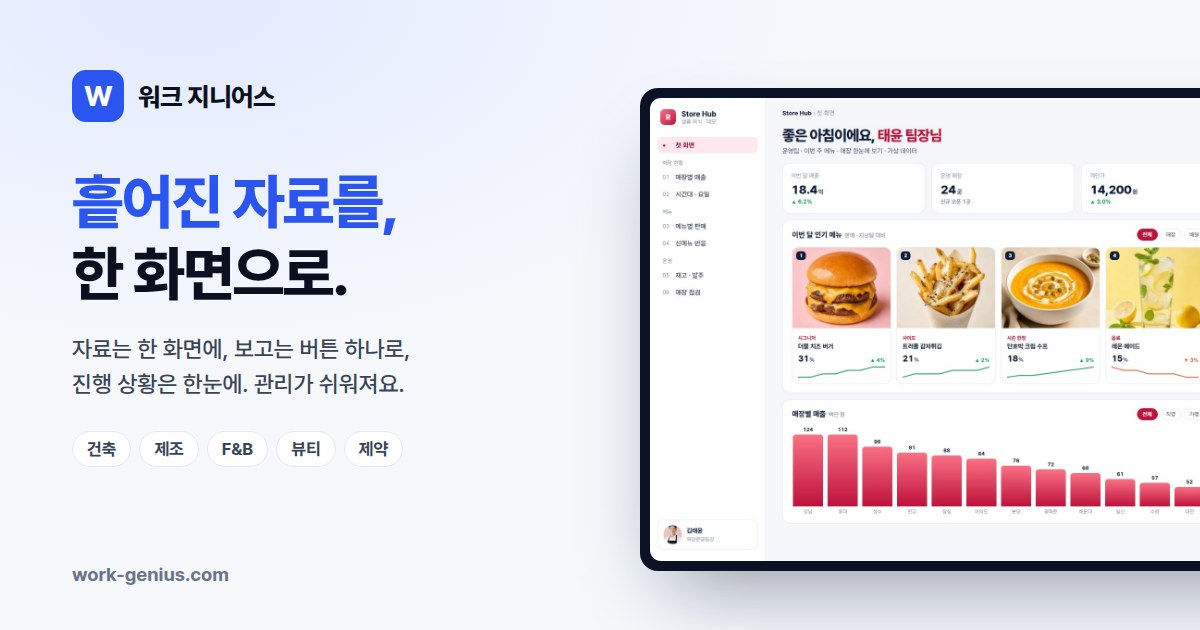
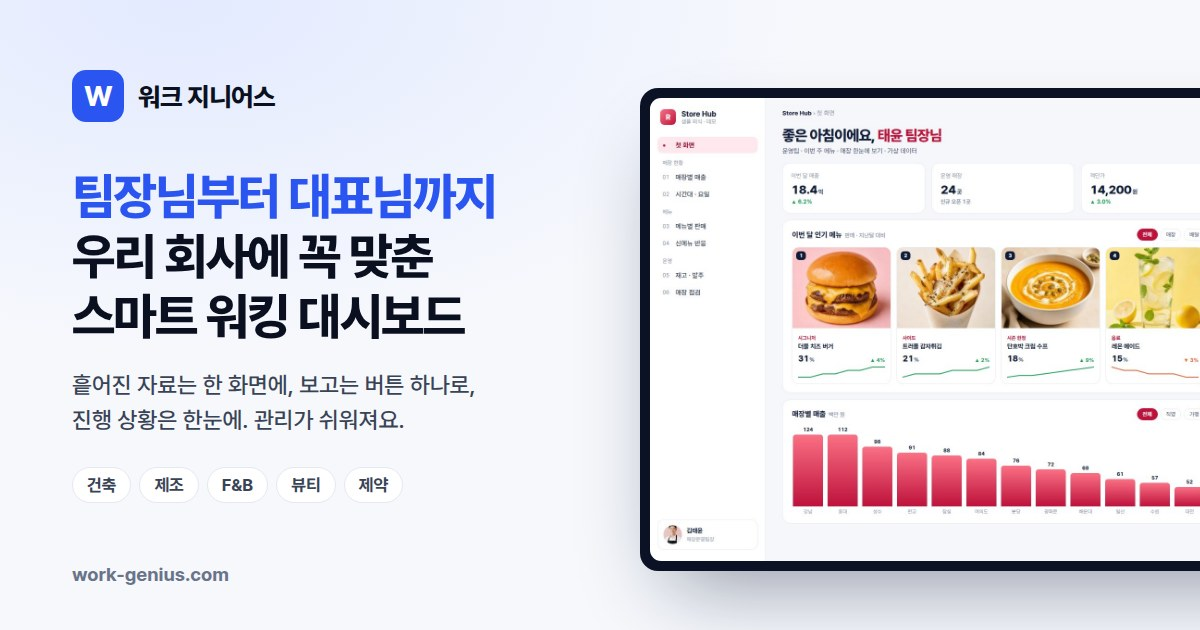
Hero: bring back 'From team leads to the CEO' headline; keep the one-screen promise as subtitle
Claude-Session: https://claude.ai/code/session_01SY1jukgDds4mgoZ5siNqay

diff --git a/kr/index.html b/kr/index.html
@@ -3,7 +3,7 @@
 <head>
 <meta charset="utf-8">
 <meta name="viewport" content="width=device-width,initial-scale=1,viewport-fit=cover">
-<title>워크 지니어스 · 흩어진 자료를 한 화면으로</title>
+<title>워크 지니어스 · 팀장님부터 대표님까지, 우리 회사에 꼭 맞춘 스마트 워킹 대시보드</title>
 <meta name="description" content="흩어진 자료를 한 화면으로. 자료는 한 화면에, 보고는 버튼 하나로, 진행 상황은 한눈에. 팀장님부터 대표님까지 관리가 쉬워져요.">
 <link rel="canonical" href="https://www.work-genius.com/kr/">
 <link rel="alternate" hreflang="en" href="https://www.work-genius.com/">
@@ -11,7 +11,7 @@
 <link rel="alternate" hreflang="x-default" href="https://www.work-genius.com/">
 <meta property="og:type" content="website">
 <meta property="og:site_name" content="워크 지니어스">
-<meta property="og:title" content="워크 지니어스 · 흩어진 자료를 한 화면으로">
+<meta property="og:title" content="워크 지니어스 · 팀장님부터 대표님까지, 우리 회사에 꼭 맞춘 스마트 워킹 대시보드">
 <meta property="og:description" content="흩어진 자료를 한 화면으로. 자료는 한 화면에, 보고는 버튼 하나로, 진행 상황은 한눈에. 팀장님부터 대표님까지 관리가 쉬워져요.">
 <meta property="og:url" content="https://www.work-genius.com/kr/">
 <meta property="og:image" content="https://www.work-genius.com/assets/img/og.jpg">
@@ -40,8 +40,8 @@
     <span class="tag"><span class="en">Built by managers with 10–15 years on the job</span><span class="ko">10~15년차 일잘러 실무 매니저들이 만드는</span></span>
     <div class="fields" role="group" aria-label="Industry examples"><button type="button" class="fi" data-ind="build" aria-pressed="false"><svg width="16" height="16" viewBox="0 0 24 24" fill="none" stroke="currentColor" stroke-width="2" stroke-linecap="round" stroke-linejoin="round" aria-hidden="true"><rect x="4" y="2" width="16" height="20" rx="2"/><path d="M9 22v-4h6v4M8 6h.01M12 6h.01M16 6h.01M8 10h.01M12 10h.01M16 10h.01M8 14h.01M12 14h.01M16 14h.01"/></svg><span class="en">Architecture</span><span class="ko">건축</span></button><button type="button" class="fi" data-ind="factory" aria-pressed="false"><svg width="16" height="16" viewBox="0 0 24 24" fill="none" stroke="currentColor" stroke-width="2" stroke-linecap="round" stroke-linejoin="round" aria-hidden="true"><path d="M2 20a2 2 0 0 0 2 2h16a2 2 0 0 0 2-2V8l-7 5V8l-7 5V4a2 2 0 0 0-2-2H4a2 2 0 0 0-2 2Z"/><path d="M17 18h1M12 18h1M7 18h1"/></svg><span class="en">Manufacturing</span><span class="ko">제조</span></button><button type="button" class="fi on" data-ind="fnb" aria-pressed="true"><svg width="16" height="16" viewBox="0 0 24 24" fill="none" stroke="currentColor" stroke-width="2" stroke-linecap="round" stroke-linejoin="round" aria-hidden="true"><path d="M3 2v7c0 1.1.9 2 2 2h4a2 2 0 0 0 2-2V2"/><path d="M7 2v20"/><path d="M21 15V2a5 5 0 0 0-5 5v6c0 1.1.9 2 2 2h3Zm0 0v7"/></svg><span class="en">F&amp;B</span><span class="ko">F&amp;B</span></button><button type="button" class="fi" data-ind="beauty" aria-pressed="false"><svg width="16" height="16" viewBox="0 0 24 24" fill="none" stroke="currentColor" stroke-width="2" stroke-linecap="round" stroke-linejoin="round" aria-hidden="true"><path d="M9.94 15.5a2 2 0 0 0-1.44-1.44l-6.13-1.58a.5.5 0 0 1 0-.96l6.13-1.58A2 2 0 0 0 9.94 8.5l1.58-6.14a.5.5 0 0 1 .96 0l1.58 6.14a2 2 0 0 0 1.44 1.44l6.13 1.58a.5.5 0 0 1 0 .96l-6.13 1.58a2 2 0 0 0-1.44 1.44l-1.58 6.13a.5.5 0 0 1-.96 0z"/></svg><span class="en">Beauty</span><span class="ko">뷰티</span></button><button type="button" class="fi" data-ind="pharma" aria-pressed="false"><svg width="16" height="16" viewBox="0 0 24 24" fill="none" stroke="currentColor" stroke-width="2" stroke-linecap="round" stroke-linejoin="round" aria-hidden="true"><path d="m10.5 20.5 10-10a4.95 4.95 0 1 0-7-7l-10 10a4.95 4.95 0 1 0 7 7Z"/><path d="m8.5 8.5 7 7"/></svg><span class="en">Pharma</span><span class="ko">제약</span></button></div>
     <p class="fhint"><svg width="14" height="14" viewBox="0 0 24 24" fill="none" stroke="currentColor" stroke-width="2.4" stroke-linecap="round" stroke-linejoin="round" aria-hidden="true"><path d="M9 11V6a2 2 0 0 1 4 0v5M13 10a2 2 0 0 1 4 0v1M17 11a2 2 0 0 1 4 0v3a7 7 0 0 1-7 7h-1a6 6 0 0 1-5-2.7L5 15a2 2 0 0 1 3-2.6L9 13"/></svg><span class="en">Tap an industry to see its example screen</span><span class="ko">업종을 눌러 보세요 · 아래 예시 화면이 바뀌어요</span></p>
-    <h1><span class="en"><span class="blue">All your scattered data,</span><br>on one screen.</span><span class="ko"><span class="blue">흩어진 자료를,</span><br>한 화면으로.</span></h1>
-    <p class="sub"><span class="en">Gathered on one screen, reports in one click, progress at a glance.<br>From team leads to the CEO, management gets easier.</span><span class="ko">자료는 한 화면에, 보고는 버튼 하나로,<br>진행 상황은 한눈에.<br>팀장님부터 대표님까지, 관리가 쉬워져요.</span></p>
+    <h1><span class="en"><span class="blue">From team leads to the CEO,</span><br>a smart working dashboard<br>built for your company</span><span class="ko"><span class="blue">팀장님부터 대표님까지</span><br>우리 회사에 꼭 맞춘 스마트 워킹 대시보드</span></h1>
+    <p class="sub"><span class="en">Scattered data on one screen, reports in one click,<br>progress at a glance. Management gets easier.</span><span class="ko">흩어진 자료는 한 화면에, 보고는 버튼 하나로,<br>진행 상황은 한눈에. 관리가 쉬워져요.</span></p>
     <div class="acts"><a class="btn" href="pricing.html#start"><span class="en">Book a call</span><span class="ko">상담 신청</span></a><a class="btn line" href="pricing.html"><span class="en">See pricing</span><span class="ko">가격 보기</span></a></div>
     <div class="device"><div class="dv" data-ind="build" hidden><img class="en" loading="lazy" src="../assets/img/app-build-en.jpg?v=202609272230" alt="Sample dashboard" width="1600" height="1000"><img class="ko" loading="lazy" src="../assets/img/app-build.jpg?v=202609272230" alt="예시 대시보드" width="1600" height="1000"></div><div class="dv" data-ind="factory" hidden><img class="en" loading="lazy" src="../assets/img/app-factory-en.jpg?v=202609272230" alt="Sample dashboard" width="1600" height="1000"><img class="ko" loading="lazy" src="../assets/img/app-factory.jpg?v=202609272230" alt="예시 대시보드" width="1600" height="1000"></div><div class="dv" data-ind="fnb"><img class="en" src="../assets/img/app-fnb-en.jpg?v=202609272230" alt="Sample dashboard" width="1600" height="1000"><img class="ko" src="../assets/img/app-fnb.jpg?v=202609272230" alt="예시 대시보드" width="1600" height="1000"></div><div class="dv" data-ind="beauty" hidden><img class="en" loading="lazy" src="../assets/img/app-beauty-en.jpg?v=202609272230" alt="Sample dashboard" width="1600" height="1000"><img class="ko" loading="lazy" src="../assets/img/app-beauty.jpg?v=202609272230" alt="예시 대시보드" width="1600" height="1000"></div><div class="dv" data-ind="pharma" hidden><img class="en" loading="lazy" src="../assets/img/app-pharma-en.jpg?v=202609272230" alt="Sample dashboard" width="1600" height="1000"><img class="ko" loading="lazy" src="../assets/img/app-pharma.jpg?v=202609272230" alt="예시 대시보드" width="1600" height="1000"></div></div>
     <p class="dv-cap"><span class="en">Tap an industry above: same frame, different company. Menus, numbers and colours all change.</span><span class="ko">위에서 업종을 눌러 보세요. 같은 틀이라도 회사마다 메뉴 · 숫자 · 색이 달라져요.</span></p>

diff --git a/index.html b/index.html
@@ -3,7 +3,7 @@
 <head>
 <meta charset="utf-8">
 <meta name="viewport" content="width=device-width,initial-scale=1,viewport-fit=cover">
-<title>Work Genius · All your scattered data, on one screen</title>
+<title>Work Genius · A smart working dashboard built for your company, from team leads to the CEO</title>
 <meta name="description" content="All your scattered data, on one screen. Gathered on one screen, reports in one click, progress at a glance. From team leads to the CEO, management gets easier.">
 <link rel="canonical" href="https://www.work-genius.com/">
 <link rel="alternate" hreflang="en" href="https://www.work-genius.com/">
@@ -11,7 +11,7 @@
 <link rel="alternate" hreflang="x-default" href="https://www.work-genius.com/">
 <meta property="og:type" content="website">
 <meta property="og:site_name" content="Work Genius">
-<meta property="og:title" content="Work Genius · All your scattered data, on one screen">
+<meta property="og:title" content="Work Genius · A smart working dashboard built for your company, from team leads to the CEO">
 <meta property="og:description" content="All your scattered data, on one screen. Gathered on one screen, reports in one click, progress at a glance. From team leads to the CEO, management gets easier.">
 <meta property="og:url" content="https://www.work-genius.com/">
 <meta property="og:image" content="https://www.work-genius.com/assets/img/og-en.jpg">
@@ -40,8 +40,8 @@
     <span class="tag"><span class="en">Built by managers with 10–15 years on the job</span><span class="ko">10~15년차 일잘러 실무 매니저들이 만드는</span></span>
     <div class="fields" role="group" aria-label="Industry examples"><button type="button" class="fi" data-ind="build" aria-pressed="false"><svg width="16" height="16" viewBox="0 0 24 24" fill="none" stroke="currentColor" stroke-width="2" stroke-linecap="round" stroke-linejoin="round" aria-hidden="true"><rect x="4" y="2" width="16" height="20" rx="2"/><path d="M9 22v-4h6v4M8 6h.01M12 6h.01M16 6h.01M8 10h.01M12 10h.01M16 10h.01M8 14h.01M12 14h.01M16 14h.01"/></svg><span class="en">Architecture</span><span class="ko">건축</span></button><button type="button" class="fi" data-ind="factory" aria-pressed="false"><svg width="16" height="16" viewBox="0 0 24 24" fill="none" stroke="currentColor" stroke-width="2" stroke-linecap="round" stroke-linejoin="round" aria-hidden="true"><path d="M2 20a2 2 0 0 0 2 2h16a2 2 0 0 0 2-2V8l-7 5V8l-7 5V4a2 2 0 0 0-2-2H4a2 2 0 0 0-2 2Z"/><path d="M17 18h1M12 18h1M7 18h1"/></svg><span class="en">Manufacturing</span><span class="ko">제조</span></button><button type="button" class="fi on" data-ind="fnb" aria-pressed="true"><svg width="16" height="16" viewBox="0 0 24 24" fill="none" stroke="currentColor" stroke-width="2" stroke-linecap="round" stroke-linejoin="round" aria-hidden="true"><path d="M3 2v7c0 1.1.9 2 2 2h4a2 2 0 0 0 2-2V2"/><path d="M7 2v20"/><path d="M21 15V2a5 5 0 0 0-5 5v6c0 1.1.9 2 2 2h3Zm0 0v7"/></svg><span class="en">F&amp;B</span><span class="ko">F&amp;B</span></button><button type="button" class="fi" data-ind="beauty" aria-pressed="false"><svg width="16" height="16" viewBox="0 0 24 24" fill="none" stroke="currentColor" stroke-width="2" stroke-linecap="round" stroke-linejoin="round" aria-hidden="true"><path d="M9.94 15.5a2 2 0 0 0-1.44-1.44l-6.13-1.58a.5.5 0 0 1 0-.96l6.13-1.58A2 2 0 0 0 9.94 8.5l1.58-6.14a.5.5 0 0 1 .96 0l1.58 6.14a2 2 0 0 0 1.44 1.44l6.13 1.58a.5.5 0 0 1 0 .96l-6.13 1.58a2 2 0 0 0-1.44 1.44l-1.58 6.13a.5.5 0 0 1-.96 0z"/></svg><span class="en">Beauty</span><span class="ko">뷰티</span></button><button type="button" class="fi" data-ind="pharma" aria-pressed="false"><svg width="16" height="16" viewBox="0 0 24 24" fill="none" stroke="currentColor" stroke-width="2" stroke-linecap="round" stroke-linejoin="round" aria-hidden="true"><path d="m10.5 20.5 10-10a4.95 4.95 0 1 0-7-7l-10 10a4.95 4.95 0 1 0 7 7Z"/><path d="m8.5 8.5 7 7"/></svg><span class="en">Pharma</span><span class="ko">제약</span></button></div>
     <p class="fhint"><svg width="14" height="14" viewBox="0 0 24 24" fill="none" stroke="currentColor" stroke-width="2.4" stroke-linecap="round" stroke-linejoin="round" aria-hidden="true"><path d="M9 11V6a2 2 0 0 1 4 0v5M13 10a2 2 0 0 1 4 0v1M17 11a2 2 0 0 1 4 0v3a7 7 0 0 1-7 7h-1a6 6 0 0 1-5-2.7L5 15a2 2 0 0 1 3-2.6L9 13"/></svg><span class="en">Tap an industry to see its example screen</span><span class="ko">업종을 눌러 보세요 · 아래 예시 화면이 바뀌어요</span></p>
-    <h1><span class="en"><span class="blue">All your scattered data,</span><br>on one screen.</span><span class="ko"><span class="blue">흩어진 자료를,</span><br>한 화면으로.</span></h1>
-    <p class="sub"><span class="en">Gathered on one screen, reports in one click, progress at a glance.<br>From team leads to the CEO, management gets easier.</span><span class="ko">자료는 한 화면에, 보고는 버튼 하나로,<br>진행 상황은 한눈에.<br>팀장님부터 대표님까지, 관리가 쉬워져요.</span></p>
+    <h1><span class="en"><span class="blue">From team leads to the CEO,</span><br>a smart working dashboard<br>built for your company</span><span class="ko"><span class="blue">팀장님부터 대표님까지</span><br>우리 회사에 꼭 맞춘 스마트 워킹 대시보드</span></h1>
+    <p class="sub"><span class="en">Scattered data on one screen, reports in one click,<br>progress at a glance. Management gets easier.</span><span class="ko">흩어진 자료는 한 화면에, 보고는 버튼 하나로,<br>진행 상황은 한눈에. 관리가 쉬워져요.</span></p>
     <div class="acts"><a class="btn" href="pricing.html#start"><span class="en">Book a call</span><span class="ko">상담 신청</span></a><a class="btn line" href="pricing.html"><span class="en">See pricing</span><span class="ko">가격 보기</span></a></div>
     <div class="device"><div class="dv" data-ind="build" hidden><img class="en" loading="lazy" src="assets/img/app-build-en.jpg?v=202609272230" alt="Sample dashboard" width="1600" height="1000"><img class="ko" loading="lazy" src="assets/img/app-build.jpg?v=202609272230" alt="예시 대시보드" width="1600" height="1000"></div><div class="dv" data-ind="factory" hidden><img class="en" loading="lazy" src="assets/img/app-factory-en.jpg?v=202609272230" alt="Sample dashboard" width="1600" height="1000"><img class="ko" loading="lazy" src="assets/img/app-factory.jpg?v=202609272230" alt="예시 대시보드" width="1600" height="1000"></div><div class="dv" data-ind="fnb"><img class="en" src="assets/img/app-fnb-en.jpg?v=202609272230" alt="Sample dashboard" width="1600" height="1000"><img class="ko" src="assets/img/app-fnb.jpg?v=202609272230" alt="예시 대시보드" width="1600" height="1000"></div><div class="dv" data-ind="beauty" hidden><img class="en" loading="lazy" src="assets/img/app-beauty-en.jpg?v=202609272230" alt="Sample dashboard" width="1600" height="1000"><img class="ko" loading="lazy" src="assets/img/app-beauty.jpg?v=202609272230" alt="예시 대시보드" width="1600" height="1000"></div><div class="dv" data-ind="pharma" hidden><img class="en" loading="lazy" src="assets/img/app-pharma-en.jpg?v=202609272230" alt="Sample dashboard" width="1600" height="1000"><img class="ko" loading="lazy" src="assets/img/app-pharma.jpg?v=202609272230" alt="예시 대시보드" width="1600" height="1000"></div></div>
     <p class="dv-cap"><span class="en">Tap an industry above: same frame, different company. Menus, numbers and colours all change.</span><span class="ko">위에서 업종을 눌러 보세요. 같은 틀이라도 회사마다 메뉴 · 숫자 · 색이 달라져요.</span></p>
